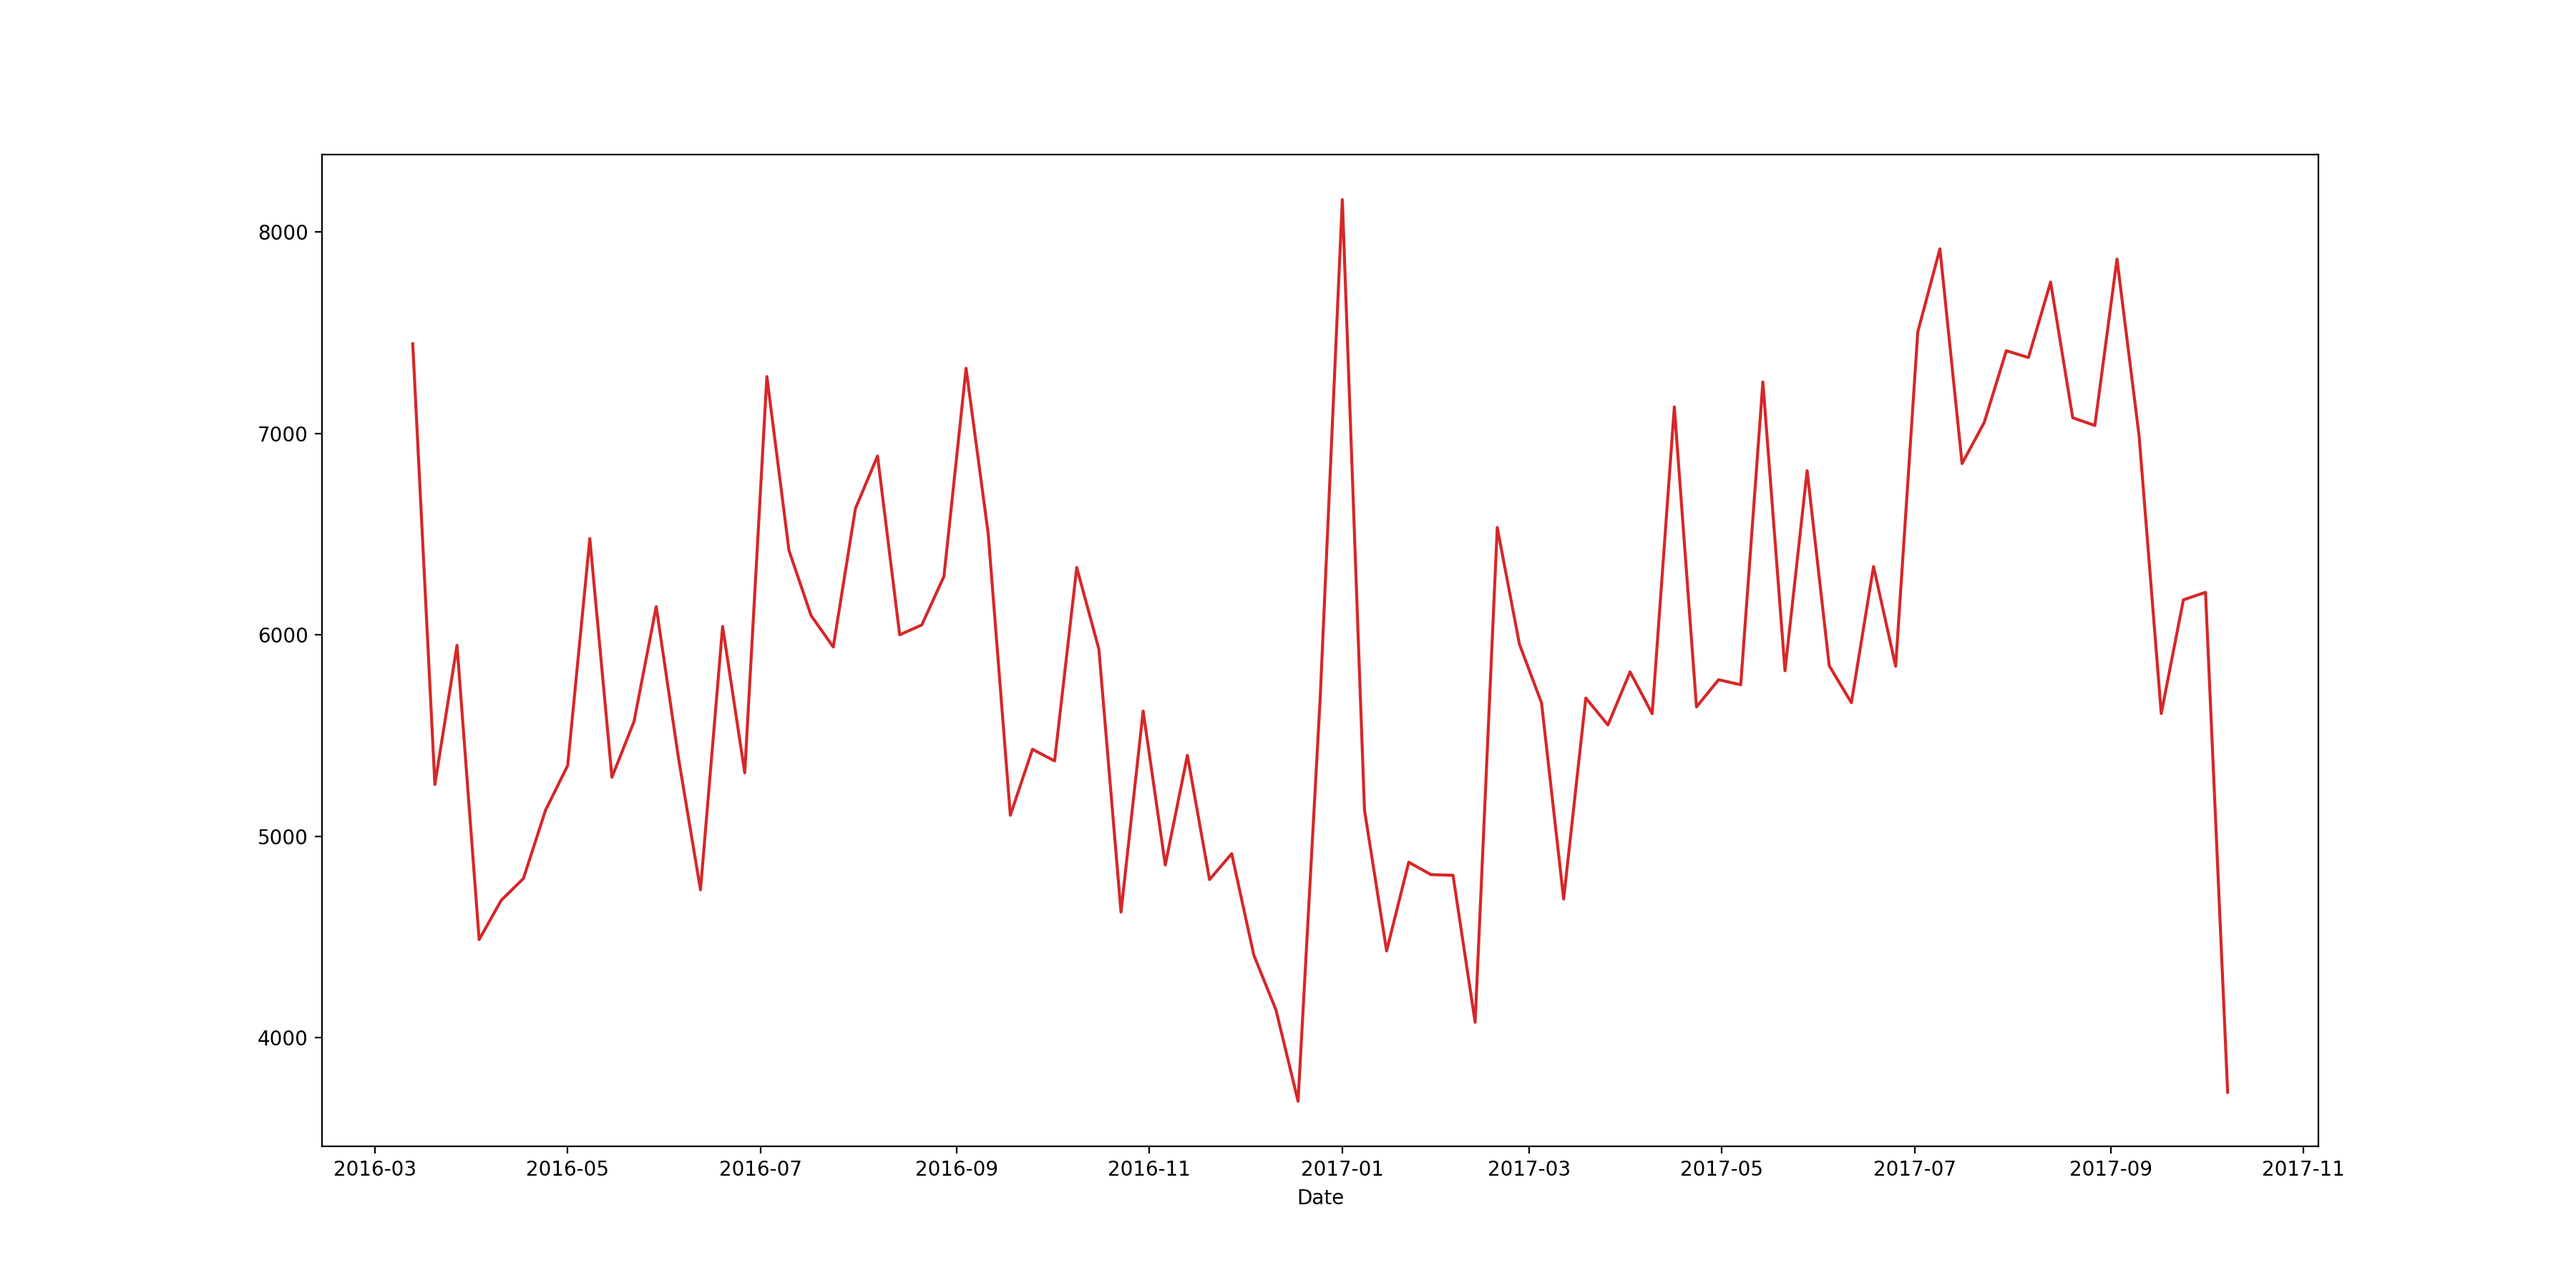
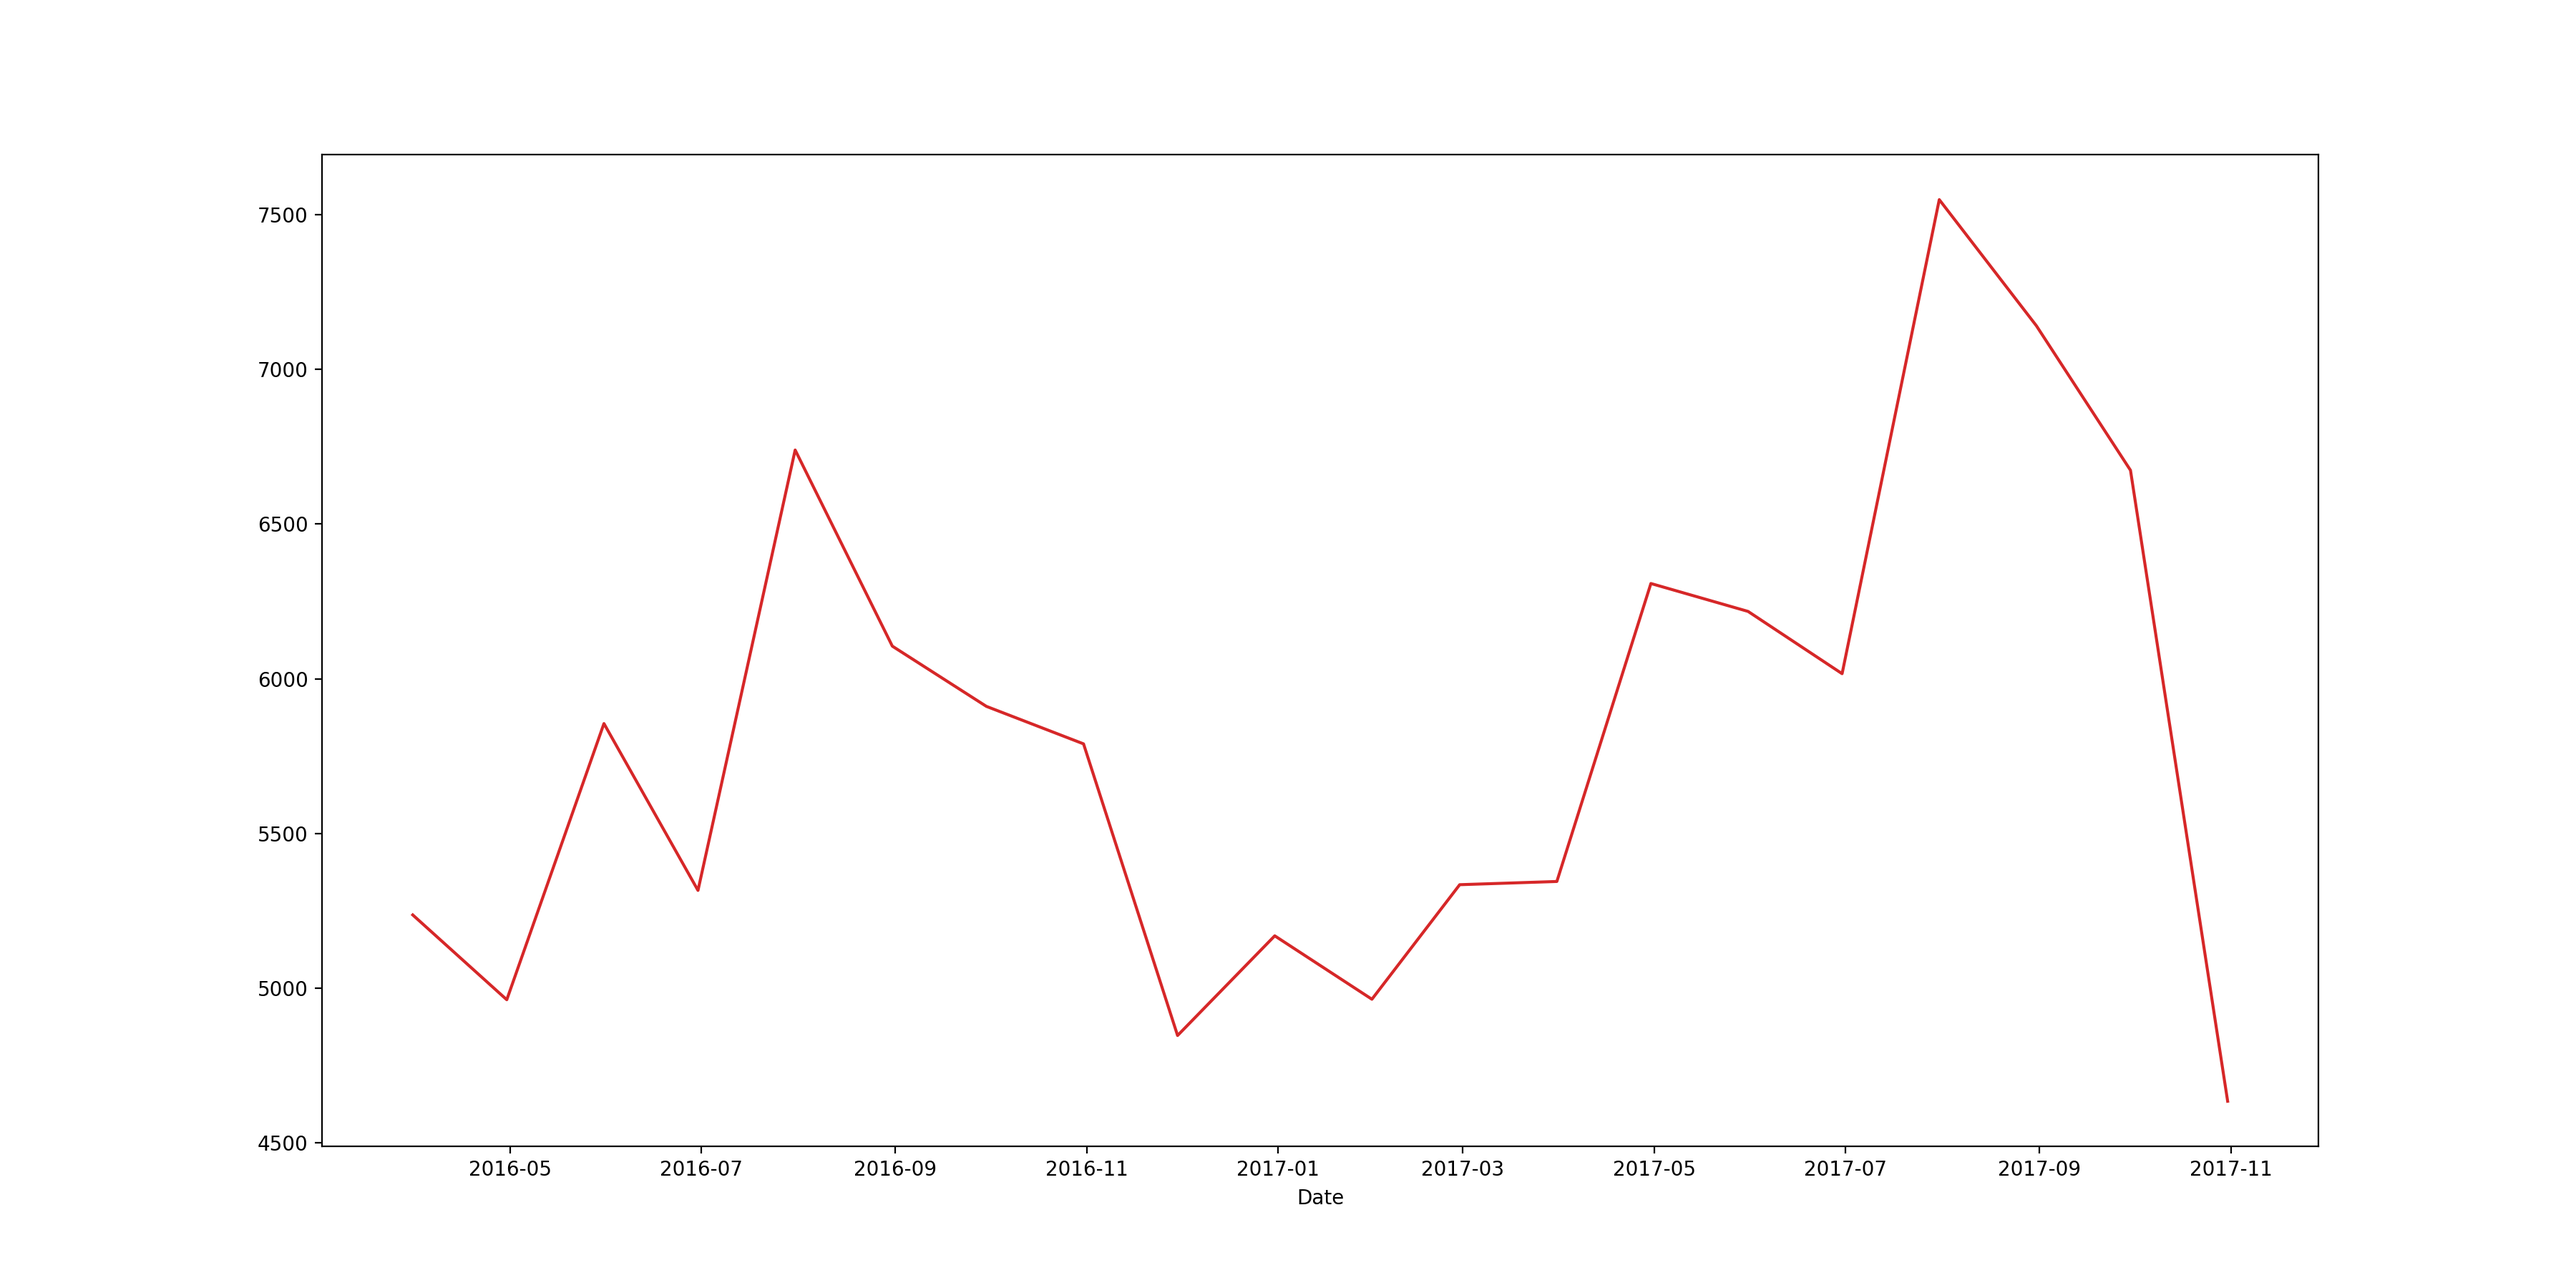
Seasonal Analysis

diff --git a/readData.py b/readData.py
@@ -1,8 +1,14 @@
 import pandas as pd
 import acf_plot as ap
+from pmdarima.arima.auto import auto_arima
+import matplotlib.pyplot as plt
+from statsmodels.tsa.seasonal import seasonal_decompose
 
 dateParser = lambda x: pd.datetime.strptime(x,'%d-%m-%Y') if pd.notna(x) else nan
-salesData = pd.read_excel('total12345.xls',skiprows = [0], usecols = ['date','maxtemp','mdsetotal'], parse_dates=['date'],date_parser=dateParser)#Read data from file
+salesData = pd.read_excel('total12345.xls',skiprows = [0], 
+						 usecols = ['date','maxtemp','mdsetotal'], 
+						 parse_dates=['date'],
+						 date_parser=dateParser)#Read data from file
 salesData.dropna(how = 'all',inplace = True)#Drop all empty rows
 #print(salesData.columns.values)
 salesData.columns = ['date','mdsetotal','maxtemp']#Change column names
@@ -13,8 +19,22 @@ salesData.set_index('date',inplace = True)
 dailySales = pd.Series(salesData.loc[:,'mdsetotal'],index = salesData.index)
 weeklySales = dailySales.resample('W').mean()
 monthlySales = dailySales.resample('M').mean()
+
+result = seasonal_decompose(dailySales, model='multiplicative')
+#print(result)
+result.plot()
+plt.savefig('SeasonalDecompose.png')
 #print(weeklySales.values)
 #print(monthlySales.index)
 
-ap.plotacf(weeklySales,'WeeklySales',show=False,save=True)
-ap.plotacf(weeklySales,'MonthlylySales',show=False,save=True)
+#ap.plotacf(weeklySales,'WeeklySales',show=False,save=True)
+#ap.plotacf(monthlySales,'MonthlylySales',show=False,save=True)
+
+stepwise_model = auto_arima(dailySales, start_p=1, start_q=1,
+                           max_p=3, max_q=3, m=12,
+                           start_P=0, seasonal=True,
+                           d=1, D=1, trace=True,
+                           error_action='ignore',  
+                           suppress_warnings=True, 
+                           stepwise=True)
+print(stepwise_model.aic())
